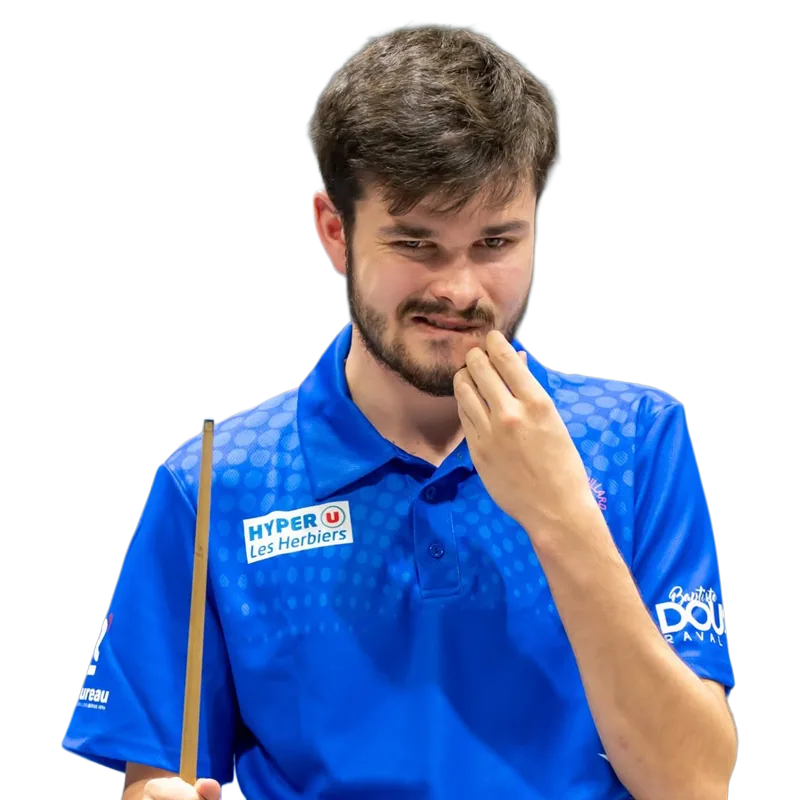
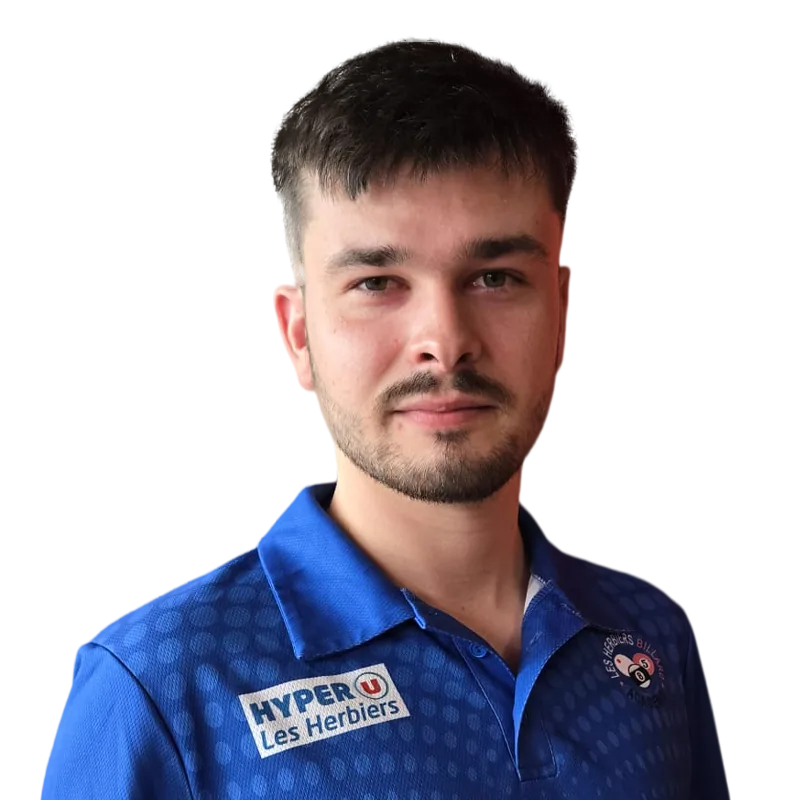
Billard 2026-2027 : permanents corriges (20, a jour Cuescore) + invites par etape (TN1 Fumel)
- roster2627 : +Jerome Lanthoen, +Sap Nhi Tsan ; -6 non reinscrits -> 20 permanents (28 engages = 8 accedants + 20)
- mastersGuests2627 : 4 invites du TN1 Fumel (Lefrancois, Crespin, Langlet, Moreau) + section d'affichage sur la page Masters

diff --git a/src/data/billard/seasons.ts b/src/data/billard/seasons.ts
@@ -81,35 +81,39 @@ export const cal2627: SeasonEvent[] = [
   { short: 'France', slug: 'france', name: 'Championnats de France', date: '25-27 juin 2027', place: 'Hauts-de-France, Nord (59)', kind: 'france', start: '2027-06-25' },
 ];
 
-// Effectif officiel des 24 permanents engagés au Blackball Master 2026/2027.
-// Source : liste des inscrits Cuescore (FFB — Permanents Blackball Master).
-// Pas de stats : le tirage et le classement s'afficheront au fil des étapes.
+// Permanents engagés au Blackball Master 2026/2027 (hors accédants, affichés à part).
+// Source : liste officielle des inscrits Cuescore (FFB — Permanents Blackball Master),
+// à jour au 06/10/2026 : 28 engagés = 8 accédants (calculés depuis le Mixte National)
+// + ces 20 permanents de retour. Pas de stats : classement au fil des étapes.
 export const roster2627: RosterEntry[] = [
   { name: 'Alexandre Buscetti', country: 'FRA' },
   { name: 'Alexis Klinka', country: 'FRA' },
-  { name: 'Benjamin Piel', country: 'FRA' },
   { name: 'Christophe Lambert', country: 'FRA' },
   { name: 'Christophe Thebeault', country: 'FRA' },
-  { name: 'Cyrille Loncle', country: 'FRA' },
   { name: 'Damien Joly', country: 'FRA' },
   { name: 'Elie Christidis', country: 'FRA' },
-  { name: 'Ismail Zegour', country: 'MAR' },
+  { name: 'Jerome Lanthoen', country: 'FRA' },
   { name: 'Julien Duquesnoy', country: 'FRA' },
   { name: 'Julien Leroux', country: 'FRA' },
   { name: 'Killian Ballon', country: 'FRA' },
   { name: 'Leonardo Moreira', country: 'FRA' },
   { name: 'Léo Ostrowska', country: 'FRA' },
-  { name: 'Mohammed Amine Himid', country: 'MAR' },
-  { name: 'Nathan Gambino', country: 'FRA' },
-  { name: 'Nicolas Grandemange Denizot', country: 'FRA' },
   { name: 'Nordine Mokhtar Mehache', country: 'DZA' },
   { name: 'Paul Coldrick', country: 'FRA' },
   { name: 'Quentin Dumont', country: 'FRA' },
+  { name: 'Sap Nhi Tsan', country: 'FRA' },
   { name: 'Simon Pellissier', country: 'FRA' },
   { name: 'Thomas Louboutin', country: 'FRA' },
   { name: 'Yannick Beaufils', country: 'FRA' },
   { name: 'Yasser Amrani Hanchi', country: 'MAR' },
 ];
+
+// Invités (wildcards) par étape du Masters 2026/2027. Chaque Tournoi National
+// accueille 4 invités EN PLUS des 28 permanents ; ils changent à chaque étape.
+// Clé = slug de l'étape (cf. cal2627). Spécifique au Masters (pas Femmes/Para).
+export const mastersGuests2627: Record<string, string[]> = {
+  tn1: ['Kevin Lefrançois', 'Arthur Crespin', 'Fabien Langlet', 'Frédéric Moreau'],
+};
 
 // La plus récente en premier.
 export const seasons: Season[] = [
